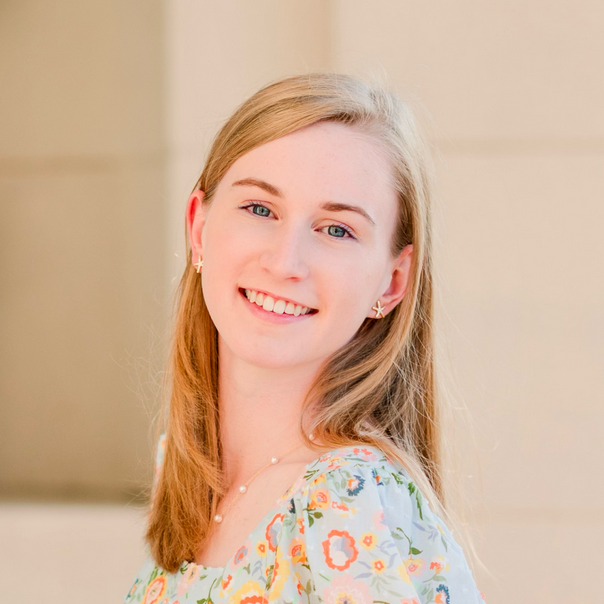
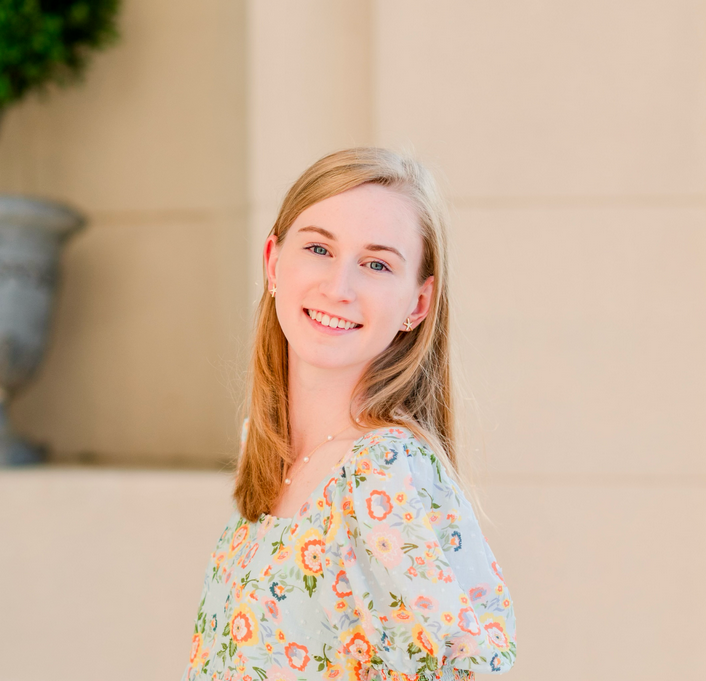
Updated website August 2025

diff --git a/apply.html b/apply.html
@@ -150,16 +150,16 @@
 							</div>
 						</div>
 						<div class="apply-intro-text">
-							 <p>At this time, we are not accepting applications, but we encourage you to check back in August for more details on future openings. In the meantime, please fill out our interest form below to stay updated and receive notifications when positions become available.</p> <!-- Format like "August 28th" -->
+							 <p>We are now accepting applications! The deadline to apply is Friday, September 5th EOD. Please fill out the application form below to be considered.</p> <!-- Format like "August 28th" -->
 						</div>
 						<div class="btn-container apply">
 						    <div class="btn-center apply">
-						      <button class="btn apply" onclick="window.open('https://forms.office.com/r/FE7NwB2Nku?origin=lprLink', target='_blank')">
+						      <button class="btn apply" onclick="window.open('https://forms.office.com/r/604NRhkfU4', target='_blank')">
 						        <svg class="border apply">
 						          <polyline points="179,1 179,59 1,59 1,1 179,1" class="bg-line"/>
 						          <polyline points="179,1 179,59 1,59 1,1 179,1" class="hl-line"/>
 						        </svg>
-						        <span class="btn-apply-span apply" style="font-size: 22px">Interest Form</span> <!-- Used to be "Apply Now" -->
+						        <span class="btn-apply-span apply" style="font-size: 22px">Application</span> <!-- Used to be "Apply Now" -->
 						      </button>
 						    </div>
 					  	</div>
@@ -173,10 +173,10 @@
 						</div>
 						<div class="apply-recruitment-info">
 							<div class="apply-recruitment-title">
-								<h3>Information Session</h3>
+								<h3>Information Sessions & Coffee Chats</h3>
 							</div>
 							<div class="apply-recruitment-description">
-								<p>Join us for an information session in order to learn more about TAMID. Attendance is not required but is highly recommended for any candidate interested in joining the club. Please reach out to us at <a href="mailto:uva@tamidgroup.org">uva@tamidgroup.org</a> if you will not be able to attend at least one of the sessions.</p>
+								<p>Join us for information sessions and coffee chats to learn more about TAMID and meet members of our executive board. While attendance is not required, it is highly recommended for any candidate interested in joining the club. If you’re unable to attend any of the sessions or chats, please reach out to us at <a href="mailto:uva@tamidgroup.org">uva@tamidgroup.org</a>.</p>
 							</div>
 						</div>
 						<div class="apply-division">
@@ -216,10 +216,10 @@
 					-->
 						<div class="apply-recruitment-info">
 							<div class="apply-recruitment-title one-title">
-								<h3>Application Due</h3>
+								<h3>Application</h3>
 							</div>
 							<div class="apply-recruitment-description">
-								<p>It will include a brief background section and a question about the candidate's interest in TAMID. Candidates that meet the high standards we expect out of all TAMID members will advance to the interview round.</p>
+								<p>The application includes a brief background section and a resume drop. Highly qualified candidates who meet TAMID’s standards will be invited to advance to the interview round.</p>
 							</div>
 						</div>
 						<div class="apply-division">

diff --git a/what-we-offer.html b/what-we-offer.html
@@ -153,6 +153,7 @@
 							<div class="offer-explanation">
 								<p> TAMID Group is a non-profit organization that connects business-minded students from universities across the world to the Israeli economy. New members receive general education about the "start-up nation" along with more specialized training to learn about business strategy, financial modeling, and risk analysis. After the education program is concluded, new members can choose to join the consulting team that does work for Israeli start-ups or the investment fund that actively manages a $50,000 portfolio. </p>
 								<p>Founded in 2019, TAMID Group at UVA is one of the most recent chapters to be initiated into the national organization and is now among the ranks of 57 other prestigious universities. Learn more about TAMID nationally at <a href="https://tamidgroup.org/" target="_blank">https://tamidgroup.org/</a>. </p>
+								<p>Pi is a new digital currency developed by Stanford PhDs, with over 55 million members worldwide. To claim your Pi, follow this link <a>https://minepi.com/Benmargolis</a> and use my username (Benmargolis) as your invitation code. The more everyone uses, the more everyone makes!</p>
 							</div>
 							<div class="offer-mission">
 								<h2><em>Our Mission:</em></h2>
@@ -164,18 +165,18 @@
 						<div class="circle-container">
 							<div class="relative-div">
 								<div class="image-shown">
-									<img src="Images/vc-blue.png" height="90" width="90" class="offer-img" alt="Person being educated">
+									<img src="Images/book-blue.png" height="90" width="90" class="offer-img" alt="Person being educated">
 								</div>
 								<div class="image-hidden">
-									<img src="Images/vc-white.png" width="90" height="90" class="offer-img" alt="Person being educated">
+									<img src="Images/book-white.png" width="90" height="90" class="offer-img" alt="Person being educated">
 								</div>
 							</div>
 						</div>
 						<div class="offer-title">
-							<h2 class="offer-header">Venture Capital</h2>
+							<h2 class="offer-header">Education</h2>
 						</div>
 						<div class="offer-text">
-							<p> Members can work with prestigious venture capital firms, such as Singtel Innov8, to conduct diligence on sectors and potential startup investments.</p>
+							<p> Members will receive education in investing and consulting through practical training, expert-led sessions, and real-world case studies from leading firms and industry professionals.</p>
 						</div>
 						<div class="what-we-offer-photo-divider">
 							<hr class="offer-solid">

diff --git a/members.html b/members.html
@@ -220,7 +220,7 @@
 <script>
     async function loadMembers() {
         try {
-            const response = await fetch('./members.json');
+            const response = await fetch('members.json?v=' + new Date().getTime());
             const data = await response.json();
             const teams = data.members;
 

diff --git a/css/styles.css b/css/styles.css
@@ -1994,6 +1994,9 @@ body {
 
 .member-photo {
 	height: 350px;
+	width: 350px;
+	object-fit: cover;
+	object-position: center;
 }
 
 .member-text {
